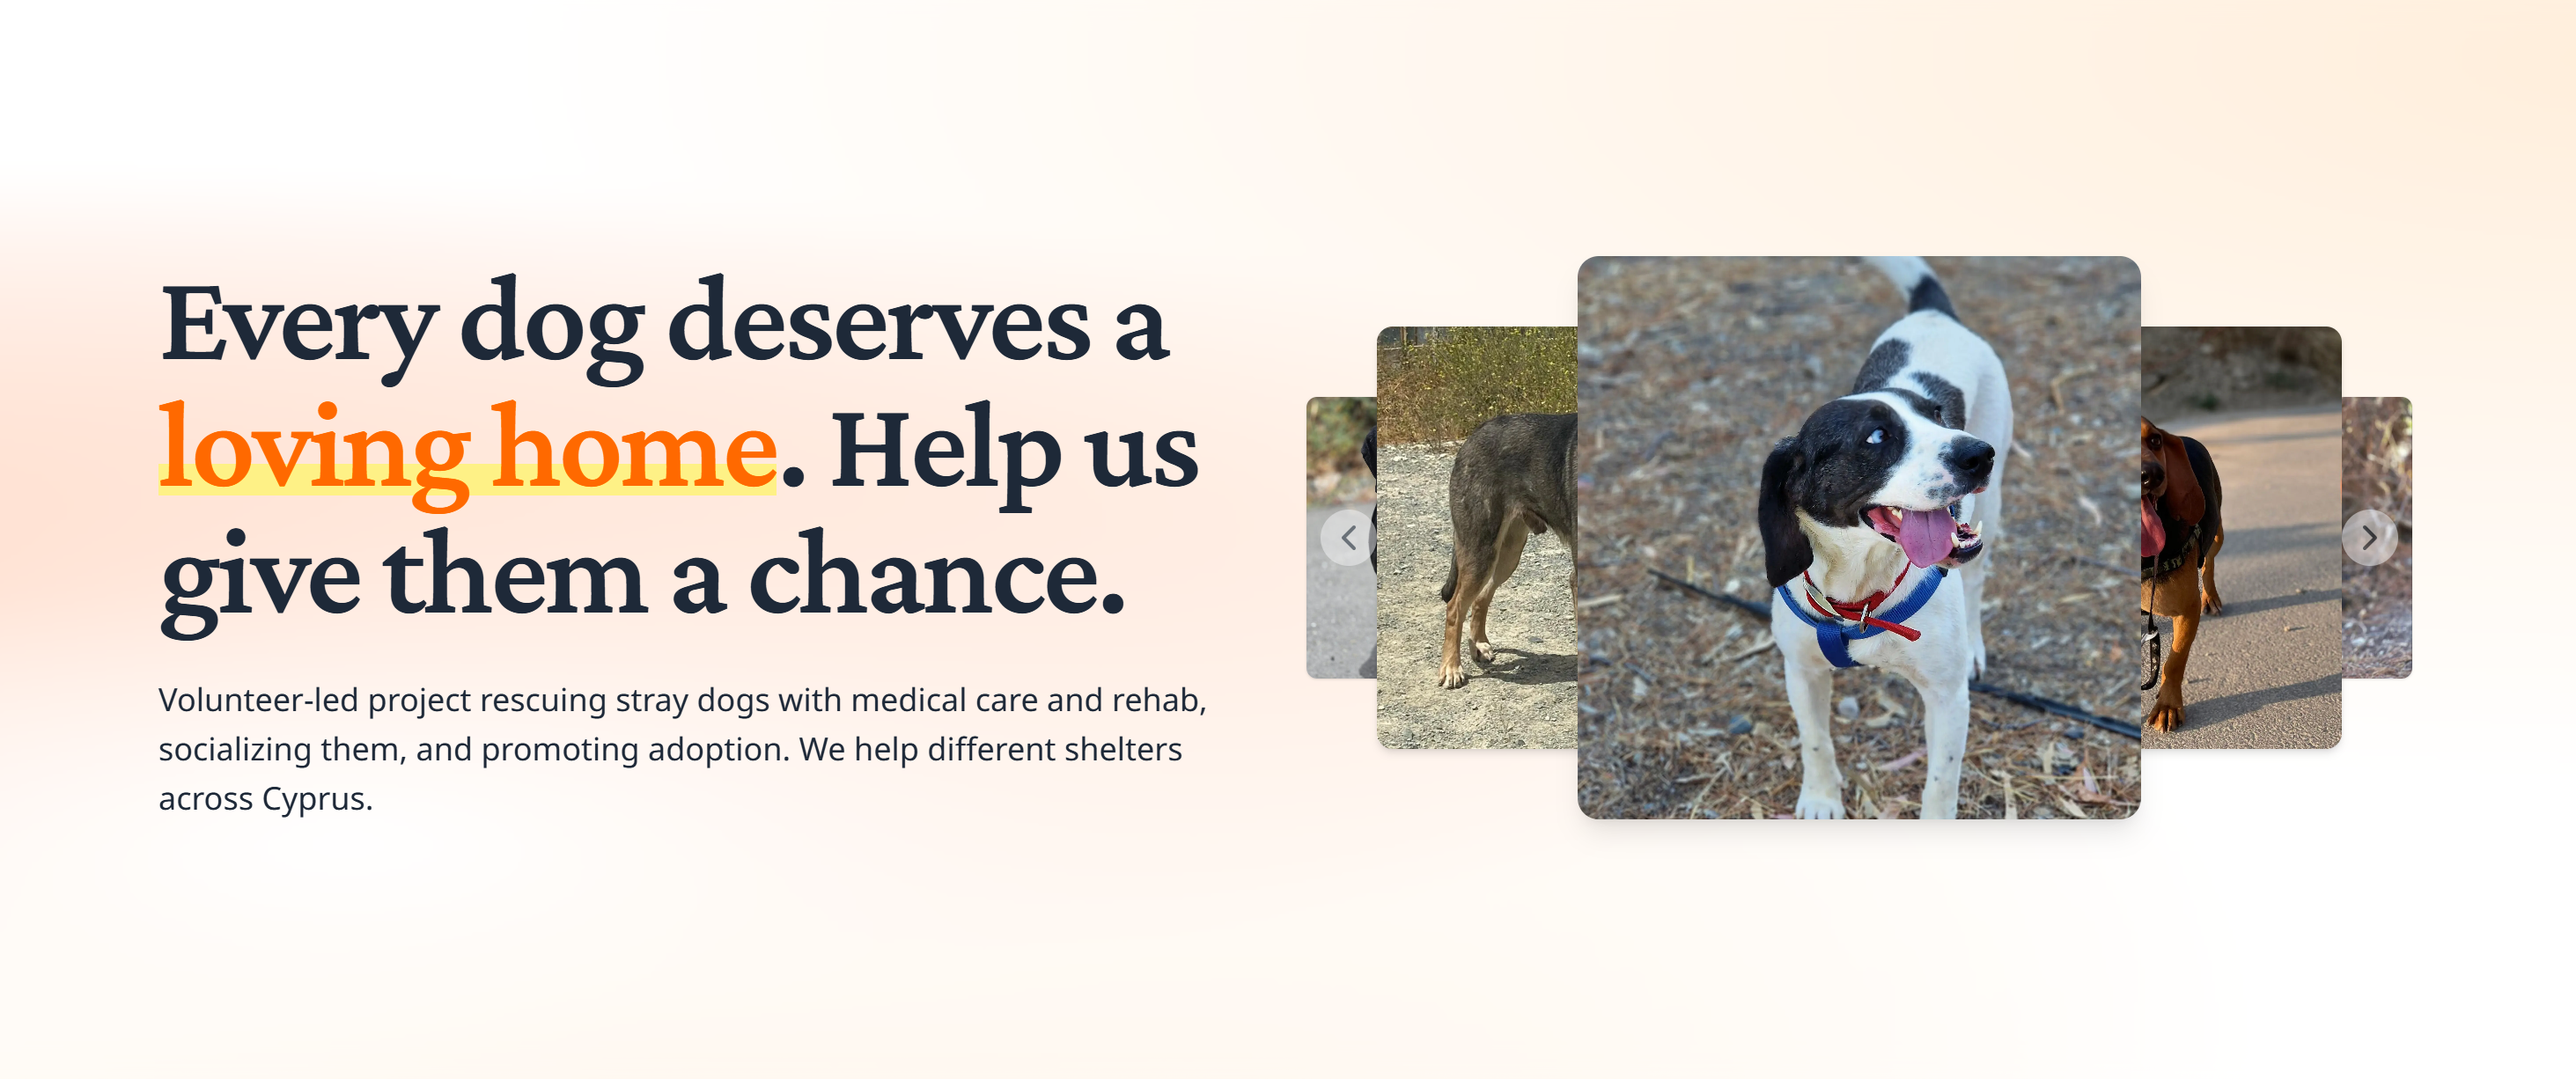
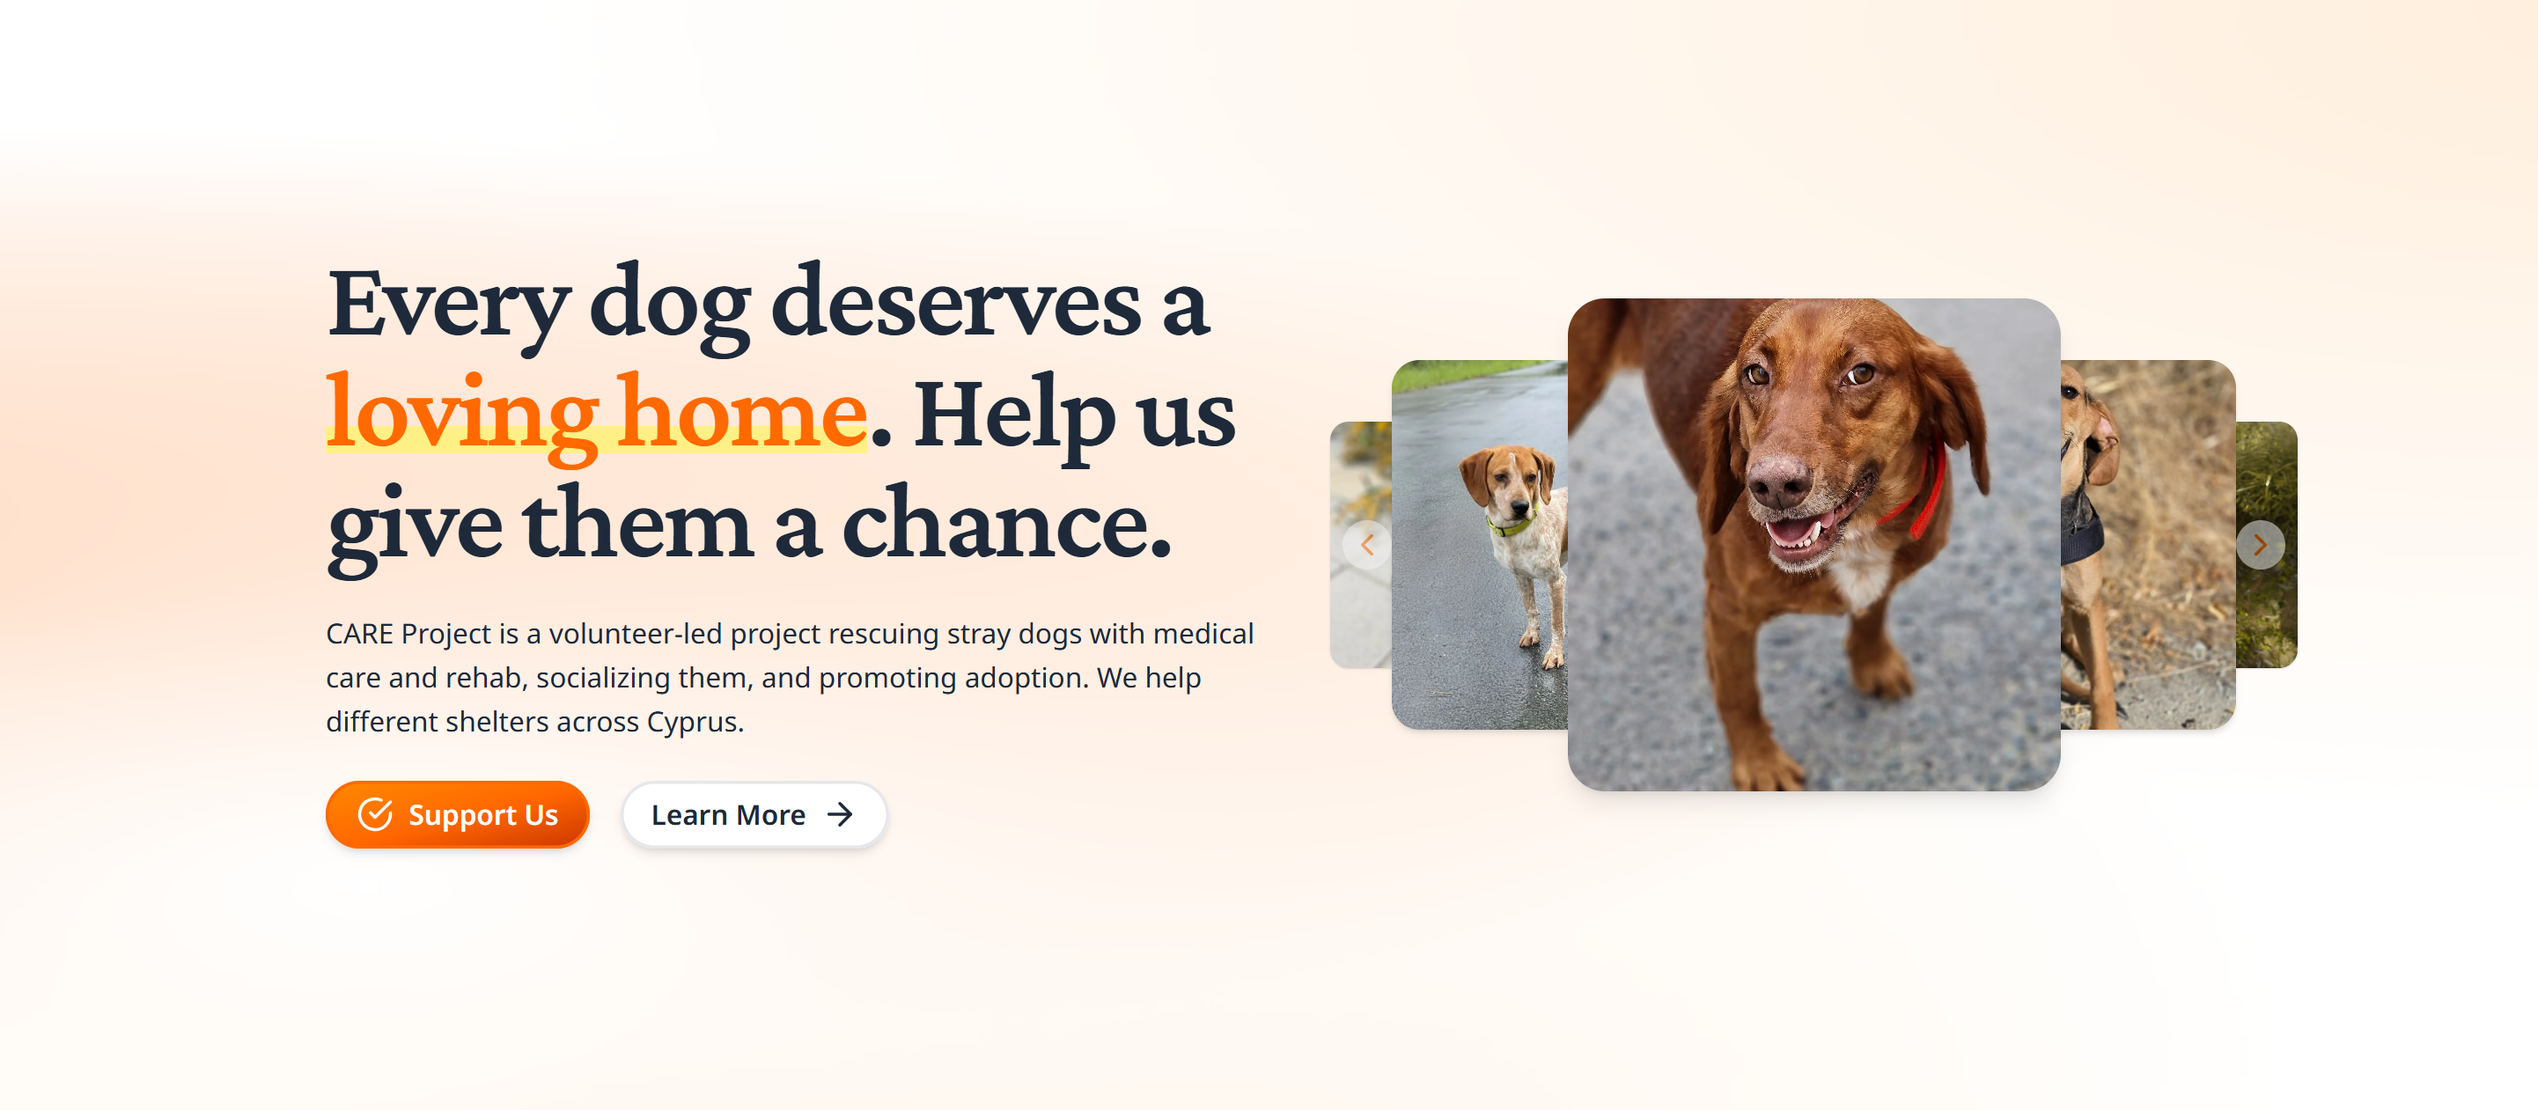
Cleanup

Changed region(s): [[0.0624, 0.217, 0.9365, 0.7749]]

diff --git a/README.md b/README.md
@@ -1,6 +1,5 @@
 # CARE Project — Cyprus Animals Rescue Effort
 
-[![Deploy with Vercel](https://vercel.com/button)](https://vercel.com/new/clone?repository-url=https%3A%2F%2Fgithub.com%2Fcareproject-cy%2Fplatform)
 [![License: MIT](https://img.shields.io/badge/License-MIT-yellow.svg)](https://opensource.org/licenses/MIT)
 [![Build Status](https://app.cloudback.it/badge/careproject-cy/platform)](https://cloudback.it)
 
@@ -12,12 +11,9 @@
 
 ## About
 
-CARE Project is the adoption platform for [UANA Foundation](https://uanafoundation.com) (reg. HE 442538), a registered nonprofit in Cyprus. We rescue stray dogs, cover their veterinary care, rehabilitate and socialize them, and coordinate adoptions — locally in Cyprus and internationally to the UK, Germany, and the Netherlands.
+CARE Project is the adoption platform for [UANA Foundation](https://uanafoundation.com), a registered nonprofit in Cyprus. We rescue stray dogs, cover their veterinary care, rehabilitate and socialize them, and coordinate adoptions — locally in Cyprus and internationally to the UK, Germany, and the Netherlands.
 
-- **76 dogs** have been through our program
-- **54 dogs** successfully adopted
-- **10+ dogs** currently looking for homes
-- **100% volunteer** — no paid staff, every euro goes to the animals
+**100% volunteer** — no paid staff, every euro goes to the animals.
 
 ## Why Open Source
 
@@ -37,7 +33,7 @@ Every rescue organization deserves a modern adoption platform. Most operate thro
 
 - Dog profile pages with photos, breed, age, and adoption status
 - Adoption listings filtered by availability
-- Success stories gallery (54 adopted dogs)
+- Success stories gallery
 - Markdown-powered blog with Cyprus-specific pet care content
 - Static pages (About, Adopt, Foster, Donate, Get Involved)
 - SEO-optimized with sitemap generation
@@ -143,19 +139,6 @@ Your blog post content here.
 
 Then run `npm run generate-blogposts` to update the data.
 
-## Deploy Your Own
-
-Click the button below to deploy your own instance to Vercel for free:
-
-[![Deploy with Vercel](https://vercel.com/button)](https://vercel.com/new/clone?repository-url=https%3A%2F%2Fgithub.com%2Fcareproject-cy%2Fplatform)
-
-After deploying:
-1. Replace dog profiles in `data/dogs/` with your own animals
-2. Update `app/data/consts.ts` with your organization name and details
-3. Replace images in `public/` with your branding
-4. Update blog posts in `data/blog/`
-5. Run the generation scripts and redeploy
-
 ## UANA Foundation
 
 CARE Project operates under [UANA Foundation](https://uanafoundation.com), a registered Cyprus nonprofit (HE 442538) that supports animal rescuers across the island. UANA also runs:
@@ -178,15 +161,6 @@ We welcome contributions! Whether you're a developer, designer, or animal welfar
 6. Push to the branch (`git push origin feature/your-feature`)
 7. Open a Pull Request
 
-### Ideas for Contributions
-
-- Improve accessibility (alt text, ARIA labels, keyboard navigation)
-- Add internationalization (Greek, German, Dutch translations)
-- Dark mode support
-- Advanced search/filtering for dog listings
-- Foster application form
-- Integration with pet adoption APIs
-
 ## Social
 
 - Instagram: [@uana.cy](https://instagram.com/uana.cy) / [@dog_adoption_cyprus](https://instagram.com/dog_adoption_cyprus)
@@ -196,4 +170,4 @@ We welcome contributions! Whether you're a developer, designer, or animal welfar
 
 ## License
 
-[MIT](LICENSE) -- Use this freely for your own rescue organization.
+[MIT](LICENSE) — Use this freely for your own rescue organization.
